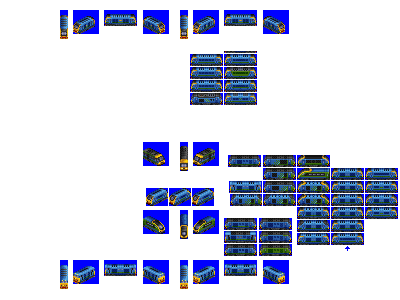
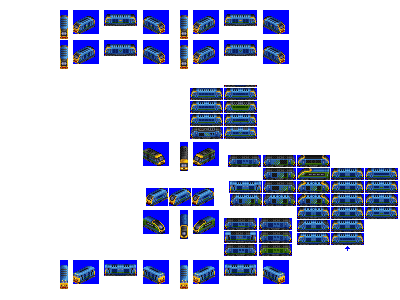
Change: additional banger blue livery for Relentless

Changed region(s): [[0.45, 0.12, 0.72, 0.48], [0.15, 0.12, 0.42, 0.24]]

diff --git a/src/vehicles/relentless.py b/src/vehicles/relentless.py
@@ -17,10 +17,8 @@ def main(roster_id):
         random_reverse=True,
         gen=6,
         fixed_run_cost_points=290,  # run cost nerf as light weight throws the cost too cheap
-        # banger blue?
-        additional_liveries=[],
+        additional_liveries=["BANGER_BLUE"],
         sprites_complete=True,
-        sprites_additional_liveries_needed=True, # banger blue?  something swooshy?
     )
 
     consist.add_unit(
